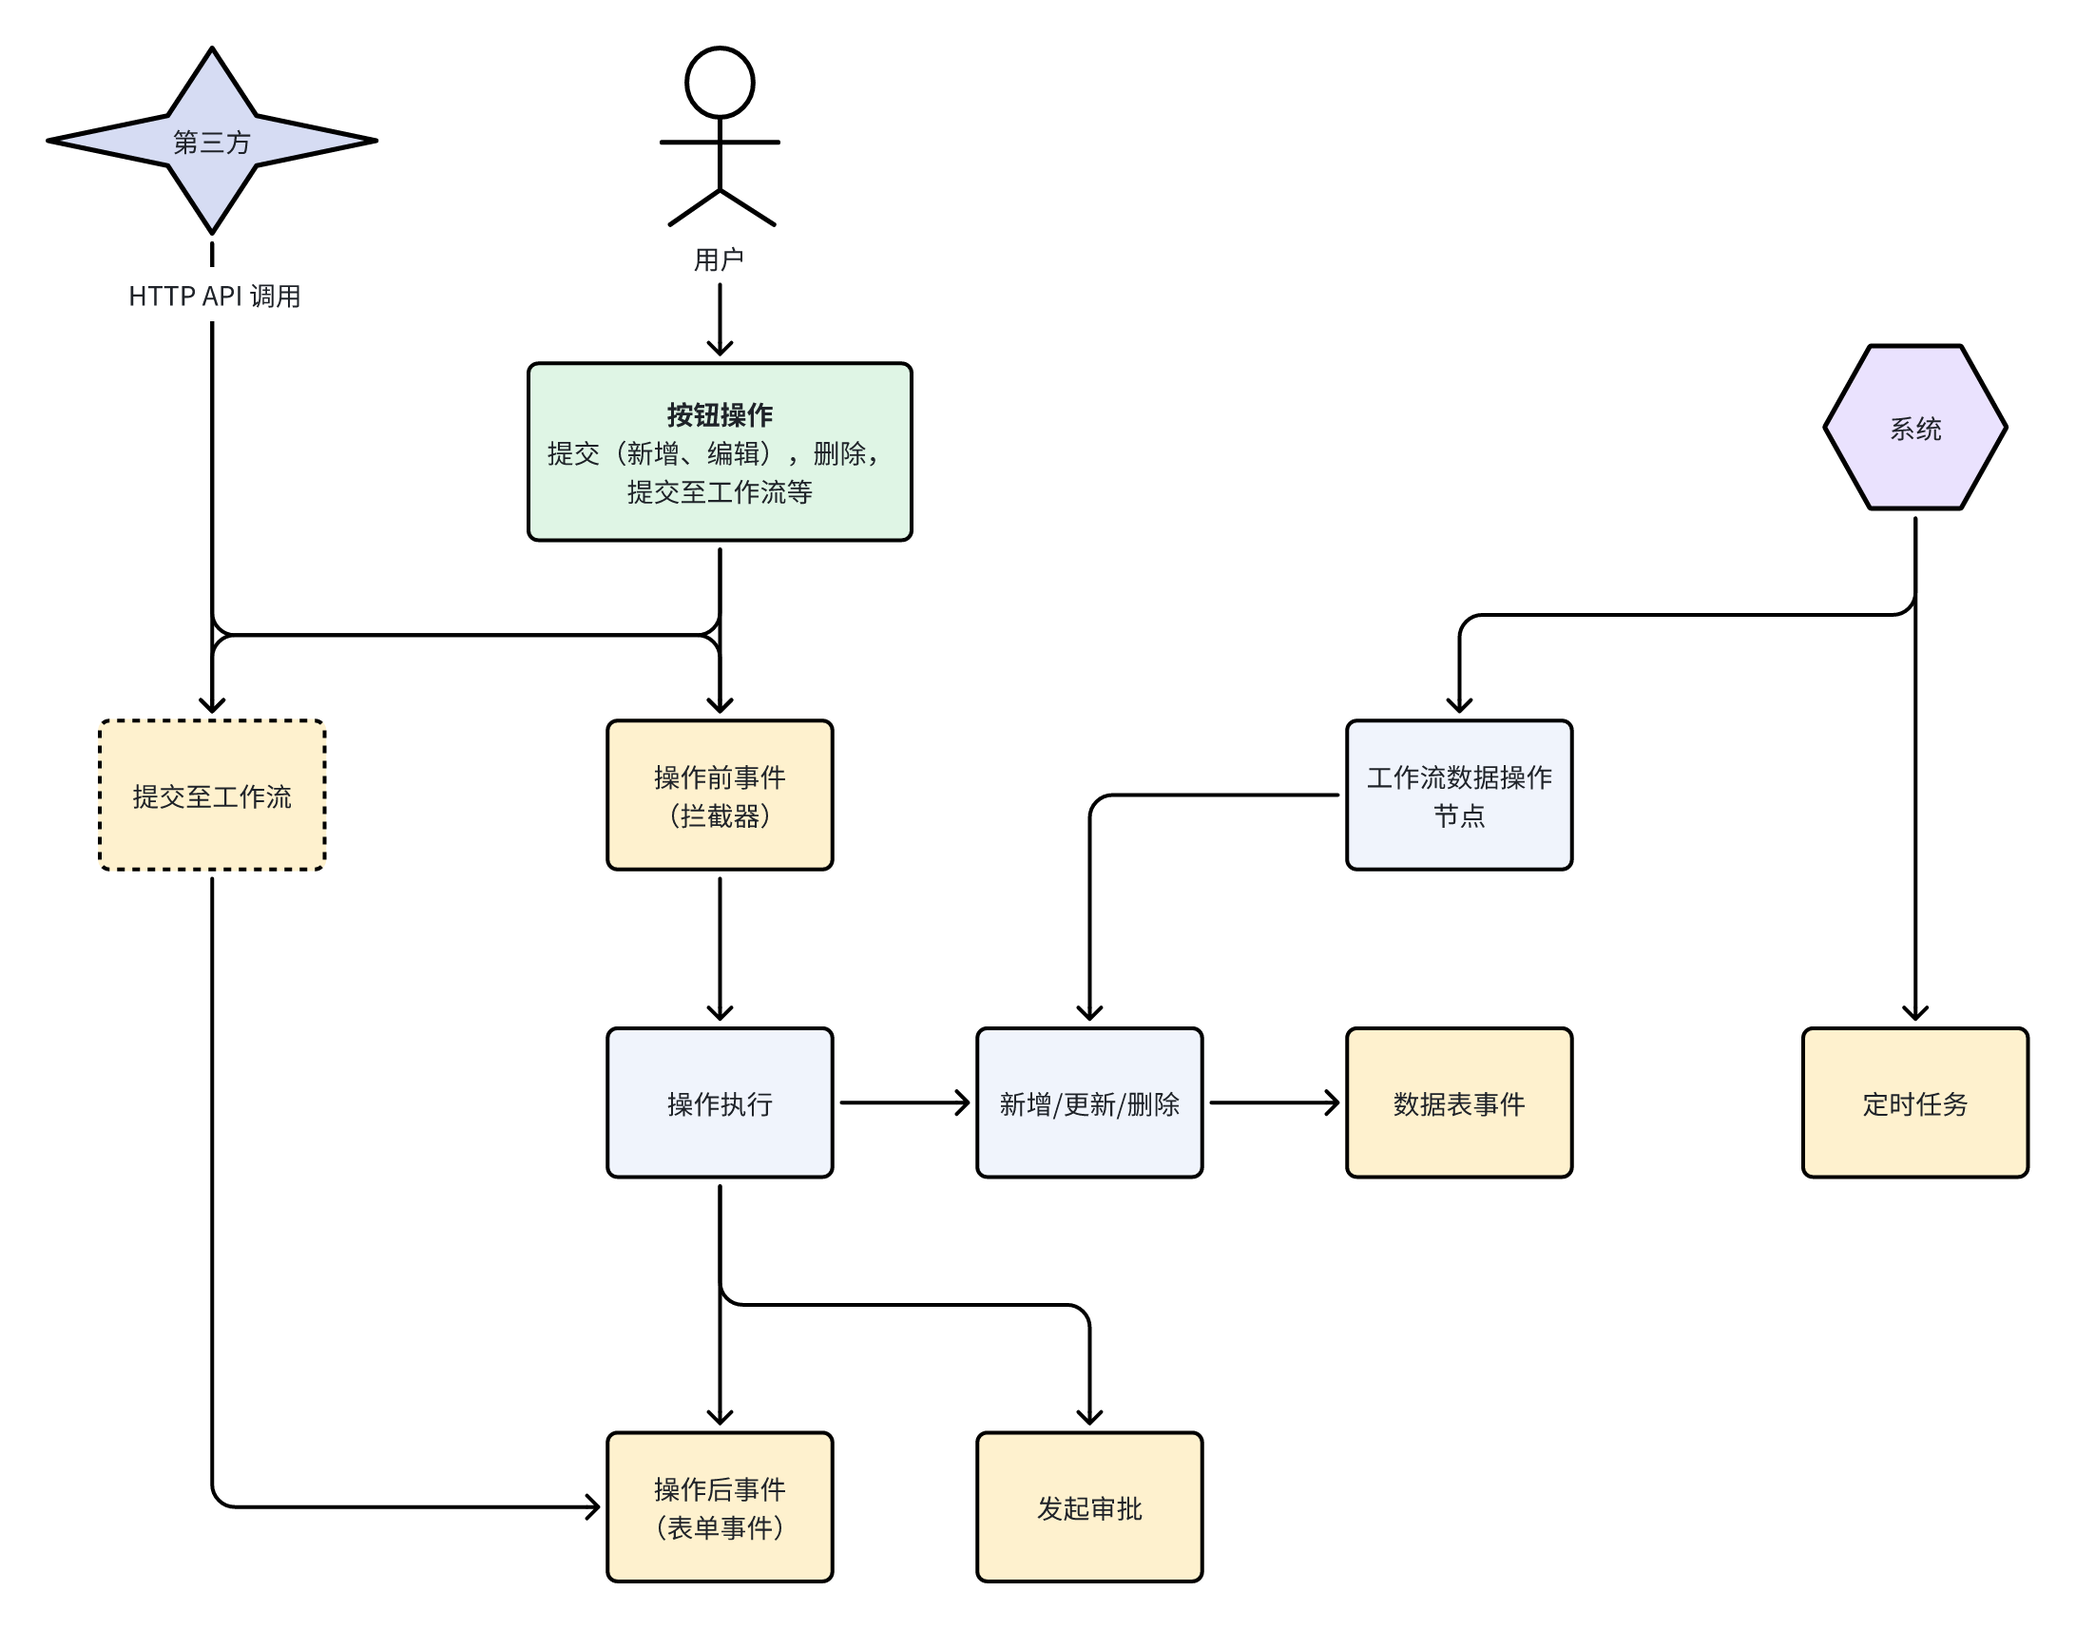
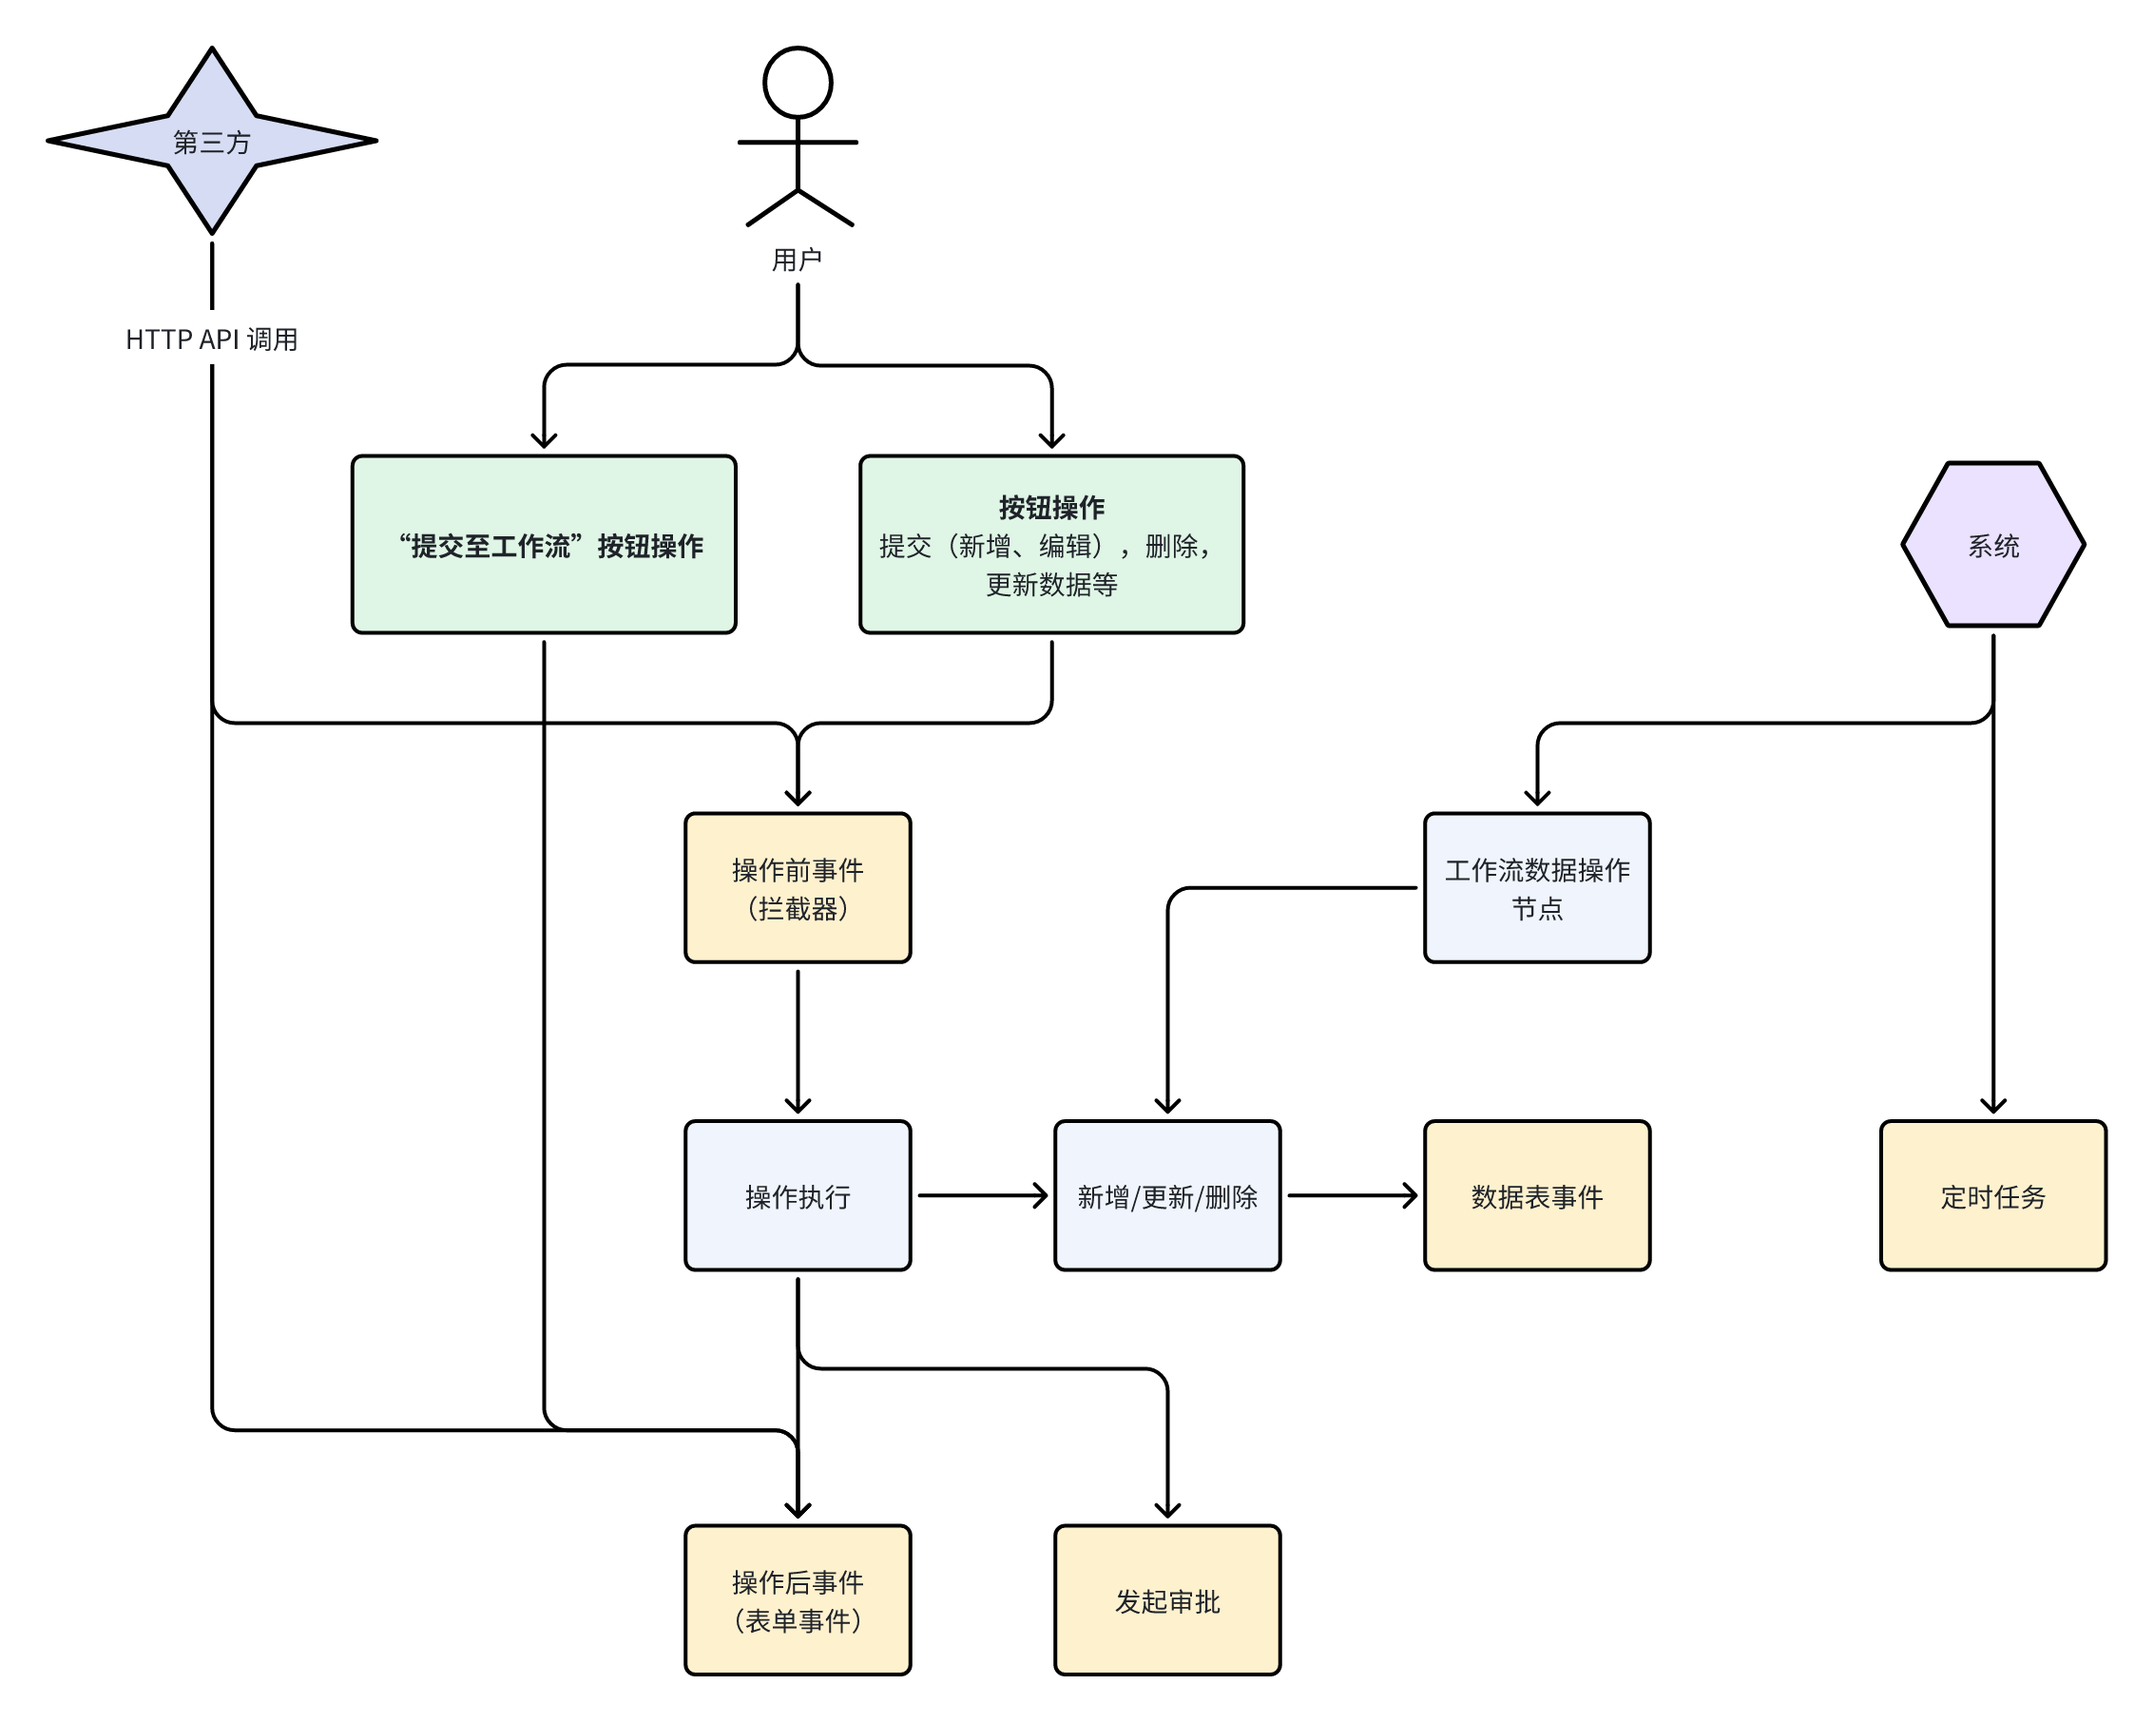
docs(plugin-workflow): adjustments

diff --git a/docs/config/handbook.ts b/docs/config/handbook.ts
@@ -982,7 +982,7 @@ export default [
             ],
           },
           {
-            title: 'Workflow - Post-action trigger',
+            title: 'Workflow - Post-action event',
             'title.zh-CN': '工作流 - 操作后事件',
             // subTitle: '@nocobase/plugin-workflow-action-trigger',
             link: '/handbook/workflow-action-trigger',
@@ -1042,8 +1042,8 @@ export default [
             link: '/handbook/workflow-request',
           },
           {
-            title: 'Workflow - Request interceptor',
-            'title.zh-CN': '工作流 - 请求拦截器',
+            title: 'Workflow - Pre-action event',
+            'title.zh-CN': '工作流 - 操作前事件',
             // subTitle: '@nocobase/plugin-workflow-request-interceptor',
             link: '/handbook/workflow-request-interceptor',
           },

diff --git a/docs/zh-CN/handbook/workflow-action-trigger/index/index.md b/docs/zh-CN/handbook/workflow-action-trigger/index/index.md
@@ -9,7 +9,7 @@
 在实现层面，由于操作后事件的处理处于中间件层（Koa 的中间件），因此，对 NocoBase 的 HTTP API 调用也可以触发已定义的操作后事件。
 
 :::info{title="提示"}
-操作后事件原名为“操作后事件”，在早前的版本中，该功能只针对表单按钮。`v0.20` 版本开始支持更多数据区块中的操作按钮，所以更名为“操作后事件”。
+操作后事件原名为“表单事件”，在早前的版本中，该功能只针对表单按钮。`v0.20` 版本开始支持更多数据区块中的操作按钮，所以更名为“操作后事件”。
 :::
 
 ## FAQ
@@ -85,6 +85,8 @@
 
 :::info{title="提示"}
 “提交至工作流”按钮是一种特殊的操作按钮，会将表单中或当前数据记录中的数据直接提交至绑定的工作流，不需要选择操作类型。全局模式对“提交至工作流”不产生影响，都必须在绑定的按钮上点击才触发。
+
+另外，“提交至工作流”按钮与其他操作按钮不同，也仅支持绑定“操作后事件”。部分操作按钮（新增、更新的提交按钮）还支持绑定“操作前事件”、“发起审批”等类型的工作流。
 :::
 
 #### 选择预加载关系数据
